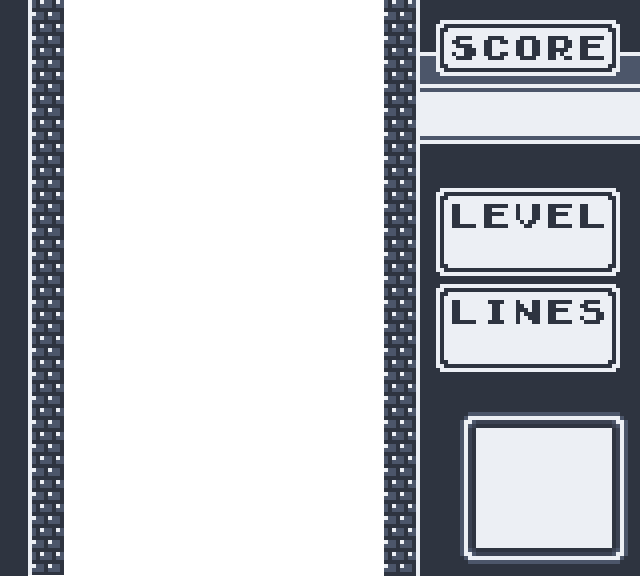
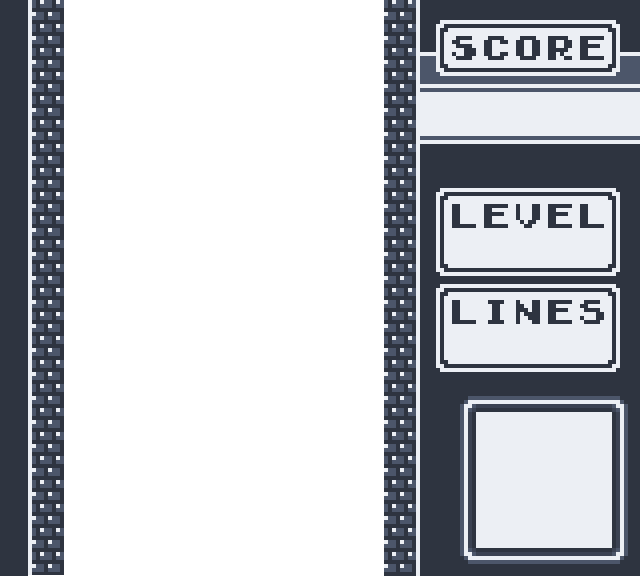
Fix next tetrimino section of background

Changed region(s): [[0.7188, 0.6875, 1.0, 0.75]]

diff --git a/src/tetris.c b/src/tetris.c
@@ -30,25 +30,6 @@ Tetris *tetris_create(void)
 }
 
 /**
- * Initializes the Tetris object with a random bag of blocks.
- */
-void tetris_initialize(Tetris *self)
-{
-    srand(time(NULL));
-    self->bag_index = 7;
-    self->next_block = rand() % 7 + 1;
-    tetris_pull_from_random_bag(self);
-}
-
-/**
- * Destroys the Tetris object.
- */
-void tetris_destroy(Tetris *self)
-{
-    free(self);
-}
-
-/**
  * Generates a new set of blocks for the random bag.
  */
 void generate_random_bag(Tetris *self)
@@ -64,6 +45,26 @@ void generate_random_bag(Tetris *self)
         } while (self->random_bag[i] != 0);
         self->random_bag[i] = block;
     }
+}
+
+/**
+ * Initializes the Tetris object with a random bag of blocks.
+ */
+void tetris_initialize(Tetris *self)
+{
+    srand(time(NULL));
+    generate_random_bag(self);
+    self->current_block = self->random_bag[0];
+    self->next_block = self->random_bag[1];
+    self->bag_index = 2;
+}
+
+/**
+ * Destroys the Tetris object.
+ */
+void tetris_destroy(Tetris *self)
+{
+    free(self);
 }
 
 /**
